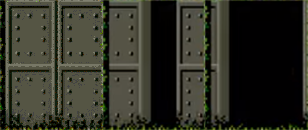
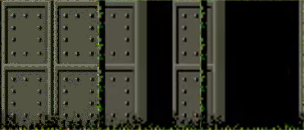
Classe porta amb tot funcionant ja

Changed region(s): [[0.0, 0.0, 0.9178, 1.0]]

diff --git a/GAME/js/tutorial.js b/GAME/js/tutorial.js
@@ -125,8 +125,9 @@ platformer.tutorial = {
         this.load.image('menu_pausa', 'img/menu pausa.png');
         //GAME OVER
         this.load.image('game_over', 'img/game_over.png');
-        //KEY
+        //KEY AND DOOR
         this.load.image('key', 'img/key.png');
+        this.load.spritesheet('door', 'img/door_open.png',101,130);
 
         //SO
         this.game.load.audio('theme_music','sounds/gngTheme.mp3');
@@ -176,9 +177,14 @@ platformer.tutorial = {
 		this.space = this.game.input.keyboard.addKey(Phaser.Keyboard.X);
         this.escKey = this.game.input.keyboard.addKey(Phaser.Keyboard.ESC);
         this.playKey = this.game.input.keyboard.addKey(Phaser.Keyboard.P);
-
+        
+        //PORTA I CLAU
+        this.door = new platformer.doorPrefab(this.game, 6962, 256, this);
+        this.key = new platformer.keyPrefab(this.game,6800,0,this);
+        
         //PLAYER ->(game,x,y, _level,_player_life,_cursors,_jump_key,_space,_with_cloth)
         this.hero = new platformer.playerPrefab(this.game,this.checkpoints[gameOptions.currentCheckpoint].x,this.checkpoints[gameOptions.currentCheckpoint].y,this,this.player_life,this.cursors,this.jump_key,this.space,this.with_cloth,this.playerHaveLife );
+        
 
         //BALES DEL PERSONATGE
         this.projectiles = this.add.group();
@@ -186,9 +192,7 @@ platformer.tutorial = {
         this.enemyProjectiles = this.add.group();
         //EXPLOSIONS
         this.explosions = this.add.group();
-
-        //KEY - la instanciara el cyborg al morir
-        new platformer.keyPrefab(this.game,7000,0,this);
+        
         //WATER
         this.createWater();
 
@@ -216,6 +220,8 @@ platformer.tutorial = {
 		//SPAWNS DE GHOSTS
 		this.spawnGhost1 = new platformer.ghostSpawnPrefab(this.game,4769,350,this);
 		
+        
+        
 		//CAMERA
 		this.camera.follow(this.hero);
         //HUD

diff --git a/GAME/js/doorPrefab.js b/GAME/js/doorPrefab.js
@@ -1,0 +1,36 @@
+var platformer = platformer || {};
+
+platformer.doorPrefab = function(game,x,y,_level){
+    Phaser.Sprite.call(this,game,x,y,'door');
+    game.add.existing(this);
+    
+    this.level = _level;
+    this.game = game;
+    this.animations.add('open', [0,1,2],8,false);
+    
+    this.open = false;
+    
+    //FISIQUES
+    game.physics.arcade.enable(this);
+    this.body.allowGravity = false;
+    this.body.immovable = true;
+       
+}
+platformer.doorPrefab.prototype=Object.create(Phaser.Sprite.prototype);
+platformer.doorPrefab.prototype.constructor=platformer.doorPrefab;
+platformer.doorPrefab.prototype.update = function(){
+    if (Phaser.Math.difference(this.position.x,this.level.hero.position.x) < 80 && this.level.hero.hasKey){
+        this.animations.play('open');
+        this.level.hero.hasKey = false;
+        this.animations.currentAnim.onComplete.add (function(){this.open = true;}.bind(this),this);
+    }
+    
+    if (this.open){
+        this.game.physics.arcade.overlap (this, this.level.hero,function (porta, heroi){
+            porta.game.time.events.add(250, function() {
+                porta.game.state.start('mainMenu');
+            }.bind(porta),porta);
+        });
+    }
+    
+}

diff --git a/GAME/js/keyPrefab.js b/GAME/js/keyPrefab.js
@@ -7,7 +7,7 @@ platformer.keyPrefab = function(game,x,y,_level){
     this.level = _level;
     
     //MOVIMENT
-    this.game.add.tween(this).to( { y: 350}, 10000, "Linear" , true, 0);
+    this.game.add.tween(this).to( { y: 350}, 6000, "Linear" , true, 0);
     
     //FISIQUES
     game.physics.arcade.enable(this);
@@ -19,6 +19,7 @@ platformer.keyPrefab.prototype.update = function(){
     
     this.game.physics.arcade.overlap (this, this.level.hero,function (key, pj){
         //activar animacio de la porta, segurament l'haurem de crear nosaltres
+        pj.hasKey = true;
         key.kill();                               
         
     });

diff --git a/GAME/index.html b/GAME/index.html
@@ -20,6 +20,7 @@
     <script src = "js/RedDemonPrefab.js"></script>
     <script src = "js/ghostPrefab.js"></script>
     <script src = "js/firePrefab.js"></script>
+    <script src = "js/doorPrefab.js"></script>
     <script src = "js/ghostSpawnPrefab.js"></script>
     <!-- MENUS -->
     <script src = "js/mainMenu.js"></script>

diff --git a/GAME/js/playerPrefab.js b/GAME/js/playerPrefab.js
@@ -15,6 +15,7 @@ platformer.playerPrefab = function (game,x,y, _level,_player_life,_cursors,_jump
     this.isKill=2;
     this.playerPos=[x,y];
     this.animationStop=false;
+    this.hasKey = false;
         
     //SPRITE
 	  Phaser.Sprite.call(this,game,x,y,'hero');
